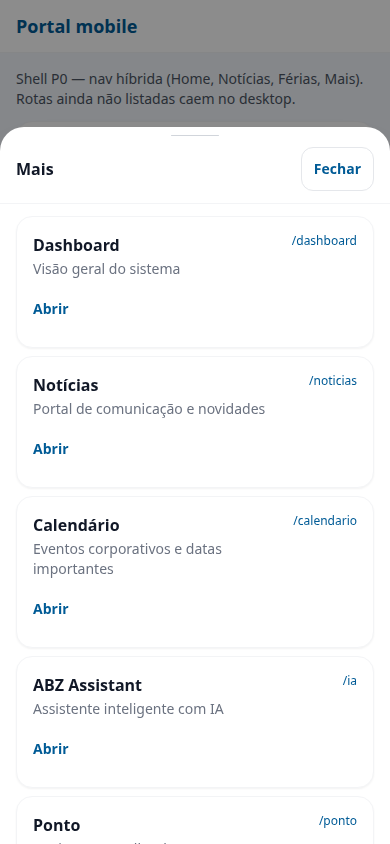
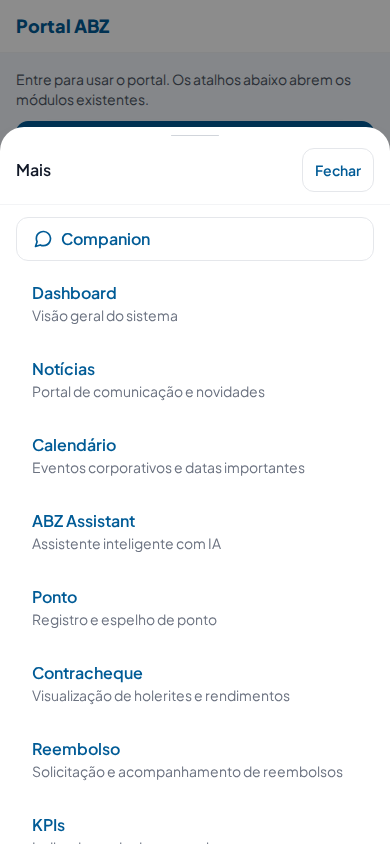
test(mobile-first): shots 375/390 e prova 0 px após paridade do login
Home, Mais, Companion e passos de login (convite, senha, reset).
Desktop 1440x900 continua 0 px nas cinco rotas. login-proof.json com
mock de rede. UA + login-flow: 30 pass.

diff --git a/docs/mobile-audit/fase2/proofs-prod.md b/docs/mobile-audit/fase2/proofs-prod.md
@@ -2,84 +2,59 @@
 
 `next build` + `next start`.  
 Before: `feat/mobile-first` (`149f8771`) em `/tmp/mf-before` → `:3001`.  
-After: `feat/mobile-first-fase2` (este commit) em `/tmp/mf-after` → `:3002`.  
-Os dois trees são irmãos sob `/tmp` (mesmo prefixo absoluto). Comparar after em `/workspace` contra before em `/tmp` é inválido — ver causa abaixo.
+After: `feat/mobile-first-fase2` (`8923b336`) em `/tmp/mf-after` → `:3002`.  
+Irmãos sob `/tmp`. Comparar `/workspace` vs `/tmp` é inválido (sort de CSS do Next 15.5 depende do path absoluto).
 
-Idioma idêntico: `locale=pt-BR`, `languageDialogShown=true`, cookie `NEXT_LOCALE=pt-BR`. Sem animações. `document.fonts.ready` + imagens. UA desktop. Sem cookie `ui`. Sem `data-abz-ui=mobile`.
+Idioma idêntico: `locale=pt-BR`, `languageDialogShown=true`, cookie `NEXT_LOCALE=pt-BR`. Sem animações. UA desktop. Sem cookie `ui`.
 
-Script: `scripts/mobile-fase2-prod-diff.mjs`. JSON: `proofs-prod.json` (`createdAt: 2026-09-25T04:11:16.786Z`).
+Script: `scripts/mobile-fase2-prod-diff.mjs`. JSON: `proofs-prod.json` (`createdAt: 2026-09-25T04:25:51.194Z`).
 
 ## Diff por rota (1 296 000 px)
 
-| Rota | px | % | bbox | Fonte computada |
-|------|----|---|------|-----------------|
-| `/login` | **0** | **0%** | — | `plusJakartaSans, "plusJakartaSans Fallback"` nos dois |
-| `/register` | **0** | **0%** | — | idem |
-| `/reset-password` | **0** | **0%** | — | idem |
-| `/unauthorized` | **0** | **0%** | — | idem |
-| `/dashboard` | **0** | **0%** | — | Sem sessão. Mesma tela vazia. Sem bypass. |
+| Rota | px | % |
+|------|----|---|
+| `/login` | **0** | **0%** |
+| `/register` | **0** | **0%** |
+| `/reset-password` | **0** | **0%** |
+| `/unauthorized` | **0** | **0%** |
+| `/dashboard` | **0** | **0%** |
 
-`h1`/`form` iguais. `data-abz-ui` no `<html>`: `null` nos dois. `UiSurfaceSwitch` não monta.
+Fonte desktop: `plusJakartaSans`. `data-abz-ui` no `<html>`: `null`. Sem toque em `src/app/layout.tsx` nem `src/app/login/page.tsx`.
 
-Uma captura fria de `/login` neste mesmo par chegou a 22 px (0,0017%, delta de canal ≤ 7) só na antialias dos ícones do form. Recaptura do mesmo par e captura dupla do mesmo servidor: **0 px**. Não é troca de fonte nem quebra de linha.
+Hash Tailwind do after mudou (`bef464f1…`) porque o front mobile ganhou classes já usadas no kit; a ordem dos `<link>` no `/login` continua `globals → toastify → next/font`. Pixel-diff 0.
 
-## Causa do leftover anterior (falso)
+## `/m/*` no desktop
 
-Arquivos CSS **iguais** (mesmo hash):
+- Com Edge: `/m` → `/`, `/m/login` → `/login`. `/m/preview` não redireciona.
+- Sem Edge (este Next 15.5): `/m/*` **renderiza o mobile**. `/login` público continua desktop (provado: `data-abz-mobile-login` = 0).
+- `/m/preview` em produção: `notFound()` (vitrine ausente). Status HTML pode vir 200 com corpo 404 (prerender Next).
 
-- `1b418106e0919646.css` — globals + Tailwind
-- `715be398208dca58.css`
-- `6cb2ff308773e395.css` — `@font-face` `plusJakartaSans` + `.__variable_70cfe0 { --font-plus-jakarta: "plusJakartaSans", … }`
+## Login mobile (mock de rede, sem bypass)
 
-O Next 15.5.25 (`FlightClientEntryPlugin` / `deduplicateCSSImportsForEntry`) ordena os `<link>` com um sort que **depende do path absoluto do build**. Não é o grafo do front mobile.
+`scripts/mobile-fase2-login-proof.mjs` + `login-proof.json`.
 
-| Build | Path | Ordem `<link>` em `/login` | `--font-plus-jakarta` vencedor | Fonte |
-|-------|------|----------------------------|--------------------------------|-------|
-| before `149f8771` | `/tmp/mf-before` | `1b4181` → `715be3` → `6cb2ff` | next/font | `plusJakartaSans` |
-| after `30710493` | `/workspace` | `6cb2ff` → `1b4181` → `715be3` | `:root` em `globals.css` (`'Plus Jakarta Sans', system-ui`) | system-ui (quebra “Windows Hello”) |
-| after `30710493` | `/tmp/mf-after` | `1b4181` → `715be3` → `6cb2ff` | next/font | `plusJakartaSans` |
+| Passo | Resultado |
+|-------|-----------|
+| UI e-mail: convite, biometria, Criar conta, EN/PT | ok |
+| e-mail novo → `quick_register` | ok |
+| e-mail existente → `password` | ok |
+| `POST /api/auth/login` | ok (mesmo endpoint do desktop) |
+| `POST /api/auth/webauthn/login/options` | ok |
+| `/login` desktop sem árvore mobile | ok |
+| Destino após login | `postLoginPath` = `/dashboard` (ou `/set-password`). Token mock não mantém sessão. |
 
-Bisect no after em `/workspace`: remover `(mobile)`, reverter `next.config.js` / `src/middleware.ts`, remover `/api/ui-surface` — a ordem **continuou** font-first. Recolocar os arquivos não mudou. O mesmo SHA em `/tmp/mf-after` volta font-last.
+Testes: `npx tsx --test src/lib/mobile-ui/device-surface.test.ts src/components/mobile/mobile-login-flow.test.ts` — **30 pass**.
 
-O mobile **não** redeclarava `next/font` nem reimportava `globals.css`. Isolamento já existente (sem toque no `layout.tsx` raiz):
+## Screenshots 375×812 e 390×844
 
-- `src/app/(mobile)/layout.tsx` injeta `MOBILE_SURFACE_CSS` via `<style>` (string em `mobile-styles.ts`)
-- sem `import '*.css'` no front mobile
-- sem segundo `next/font`
-- classes Tailwind únicas do mobile viraram helpers `abz-m-*` para o hash `1b418106` ficar igual ao before
+| Tela | 375 | 390 |
+|------|-----|-----|
+| Login (e-mail, convite, biometria, EN/PT, Criar conta) | `mobile/login-375x812.png` | `mobile/login-390x844.png` |
+| Login convite aberto | `mobile/login-invite-375x812.png` | `mobile/login-invite-390x844.png` |
+| Login senha | `mobile/login-password-375x812.png` | `mobile/login-password-390x844.png` |
+| Reset senha | `mobile/login-reset-375x812.png` | `mobile/login-reset-390x844.png` |
+| Home | `mobile/home-375x812.png` | `mobile/home-390x844.png` |
+| Mais | `mobile/mais-375x812.png` | `mobile/mais-390x844.png` |
+| Companion | `mobile/companion-375x812.png` | `mobile/companion-390x844.png` |
 
-Nenhum arquivo desktop existente nem o layout raiz foi editado nesta correção. A correção da prova é construir os dois refs como irmãos sob o mesmo prefixo (`/tmp/mf-*`).
-
-## `/m/login` — fonte da marca
-
-UA iPhone + `Sec-CH-UA-Mobile: ?1` em `:3002`:
-
-- `data-abz-ui=mobile`
-- `font-family: plusJakartaSans, "plusJakartaSans Fallback"`
-- faces 400/600/800 `loaded`
-
-## Screenshots mobile (produção `:3002`, depois da correção)
-
-| Viewport | Login | Shell |
-|----------|-------|-------|
-| 375×812 | `docs/mobile-audit/fase2/mobile/login-375x812.png` | `docs/mobile-audit/fase2/mobile/shell-375x812.png` |
-| 390×844 | `docs/mobile-audit/fase2/mobile/login-390x844.png` | `docs/mobile-audit/fase2/mobile/shell-390x844.png` |
-
-## Arquivos desktop existentes
-
-- `src/app/layout.tsx` — **não tocado**
-- `src/components/ClientProviders.tsx` — diff 0 vs `feat/mobile-first`
-- `src/contexts/CompanionSessionContext.tsx` — diff 0 vs `feat/mobile-first`
-- Sem `src/app/login/layout.tsx`
-- Sem `import '*.css'` no front mobile
-
-## Middleware Edge
-
-`middleware-manifest.json` em produção: `{ "version": 3, "middleware": {}, "functions": {}, "sortedMiddleware": [] }` em `feat/mobile-first`, nesta branch e em `portal` (`51f741c4`, Next 15.5.25). Pré-existente. P0 `/login` usa `next.config.js` `rewrites.beforeFiles`.
-
-## Tablet / testes UA
-
-`TABLET_UA_VALUE` = iPad | Tablet | PlayBook | SM-T/SM-X | Nexus 7/9/10 | Kindle | Silk | Lenovo TB | Pixel Tablet.  
-`PHONE_REWRITE_UA_VALUE` ancorado `^$`; tablet vence mesmo com `Mobile`.
-
-`npx tsx --test src/lib/mobile-ui/device-surface.test.ts` — **23 pass**.
+Pasta: `docs/mobile-audit/fase2/`.

diff --git a/docs/mobile-audit/fase2/proofs.md b/docs/mobile-audit/fase2/proofs.md
@@ -1,6 +1,6 @@
 # Fase 2 — provas (2026-09-25)
 
-Prova de produção 1440×900 (0 px): `proofs-prod.md`. Este arquivo é o lote em `next dev` (overlay/i18n ruidosos).
+Prova de produção 1440×900 (0 px) + login mobile: `proofs-prod.md`. Este arquivo é o lote em `next dev` (overlay/i18n ruidosos).
 
 App local `http://127.0.0.1:3000` com `.env.local` fake (não commitado). Playwright + `scripts/mobile-fase2-proofs.mjs`.
 
